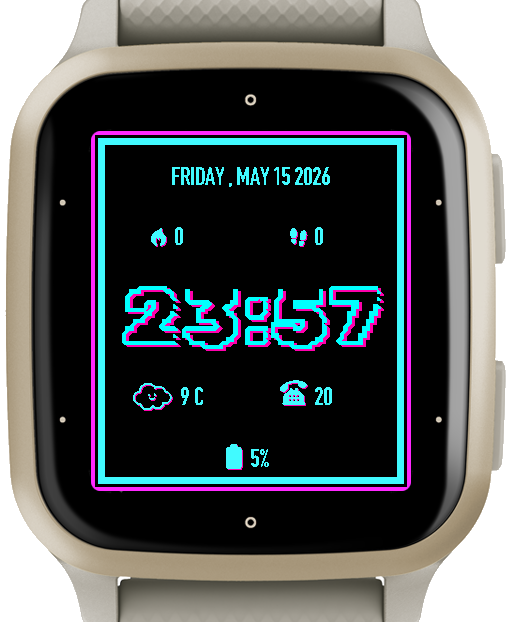
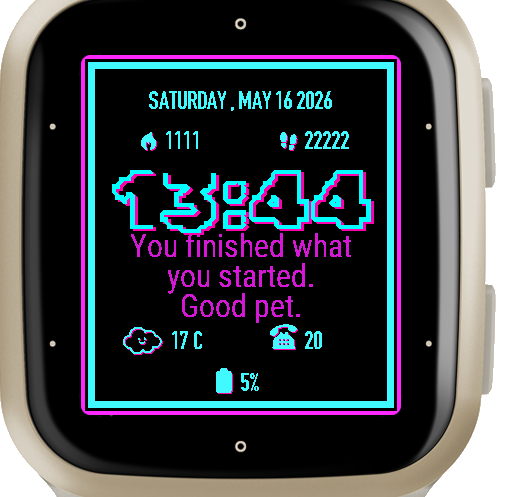
Add praises

diff --git a/README.md b/README.md
@@ -1,4 +1,4 @@
-# Praise Me Venu Sq2 Watch Face
+# Praise Me Garmin Venu Sq2 Watch Face
 
 [<img src="/resources/PraiseMeWatchFace.png" width="200" height="300">](PraiseMe)
 